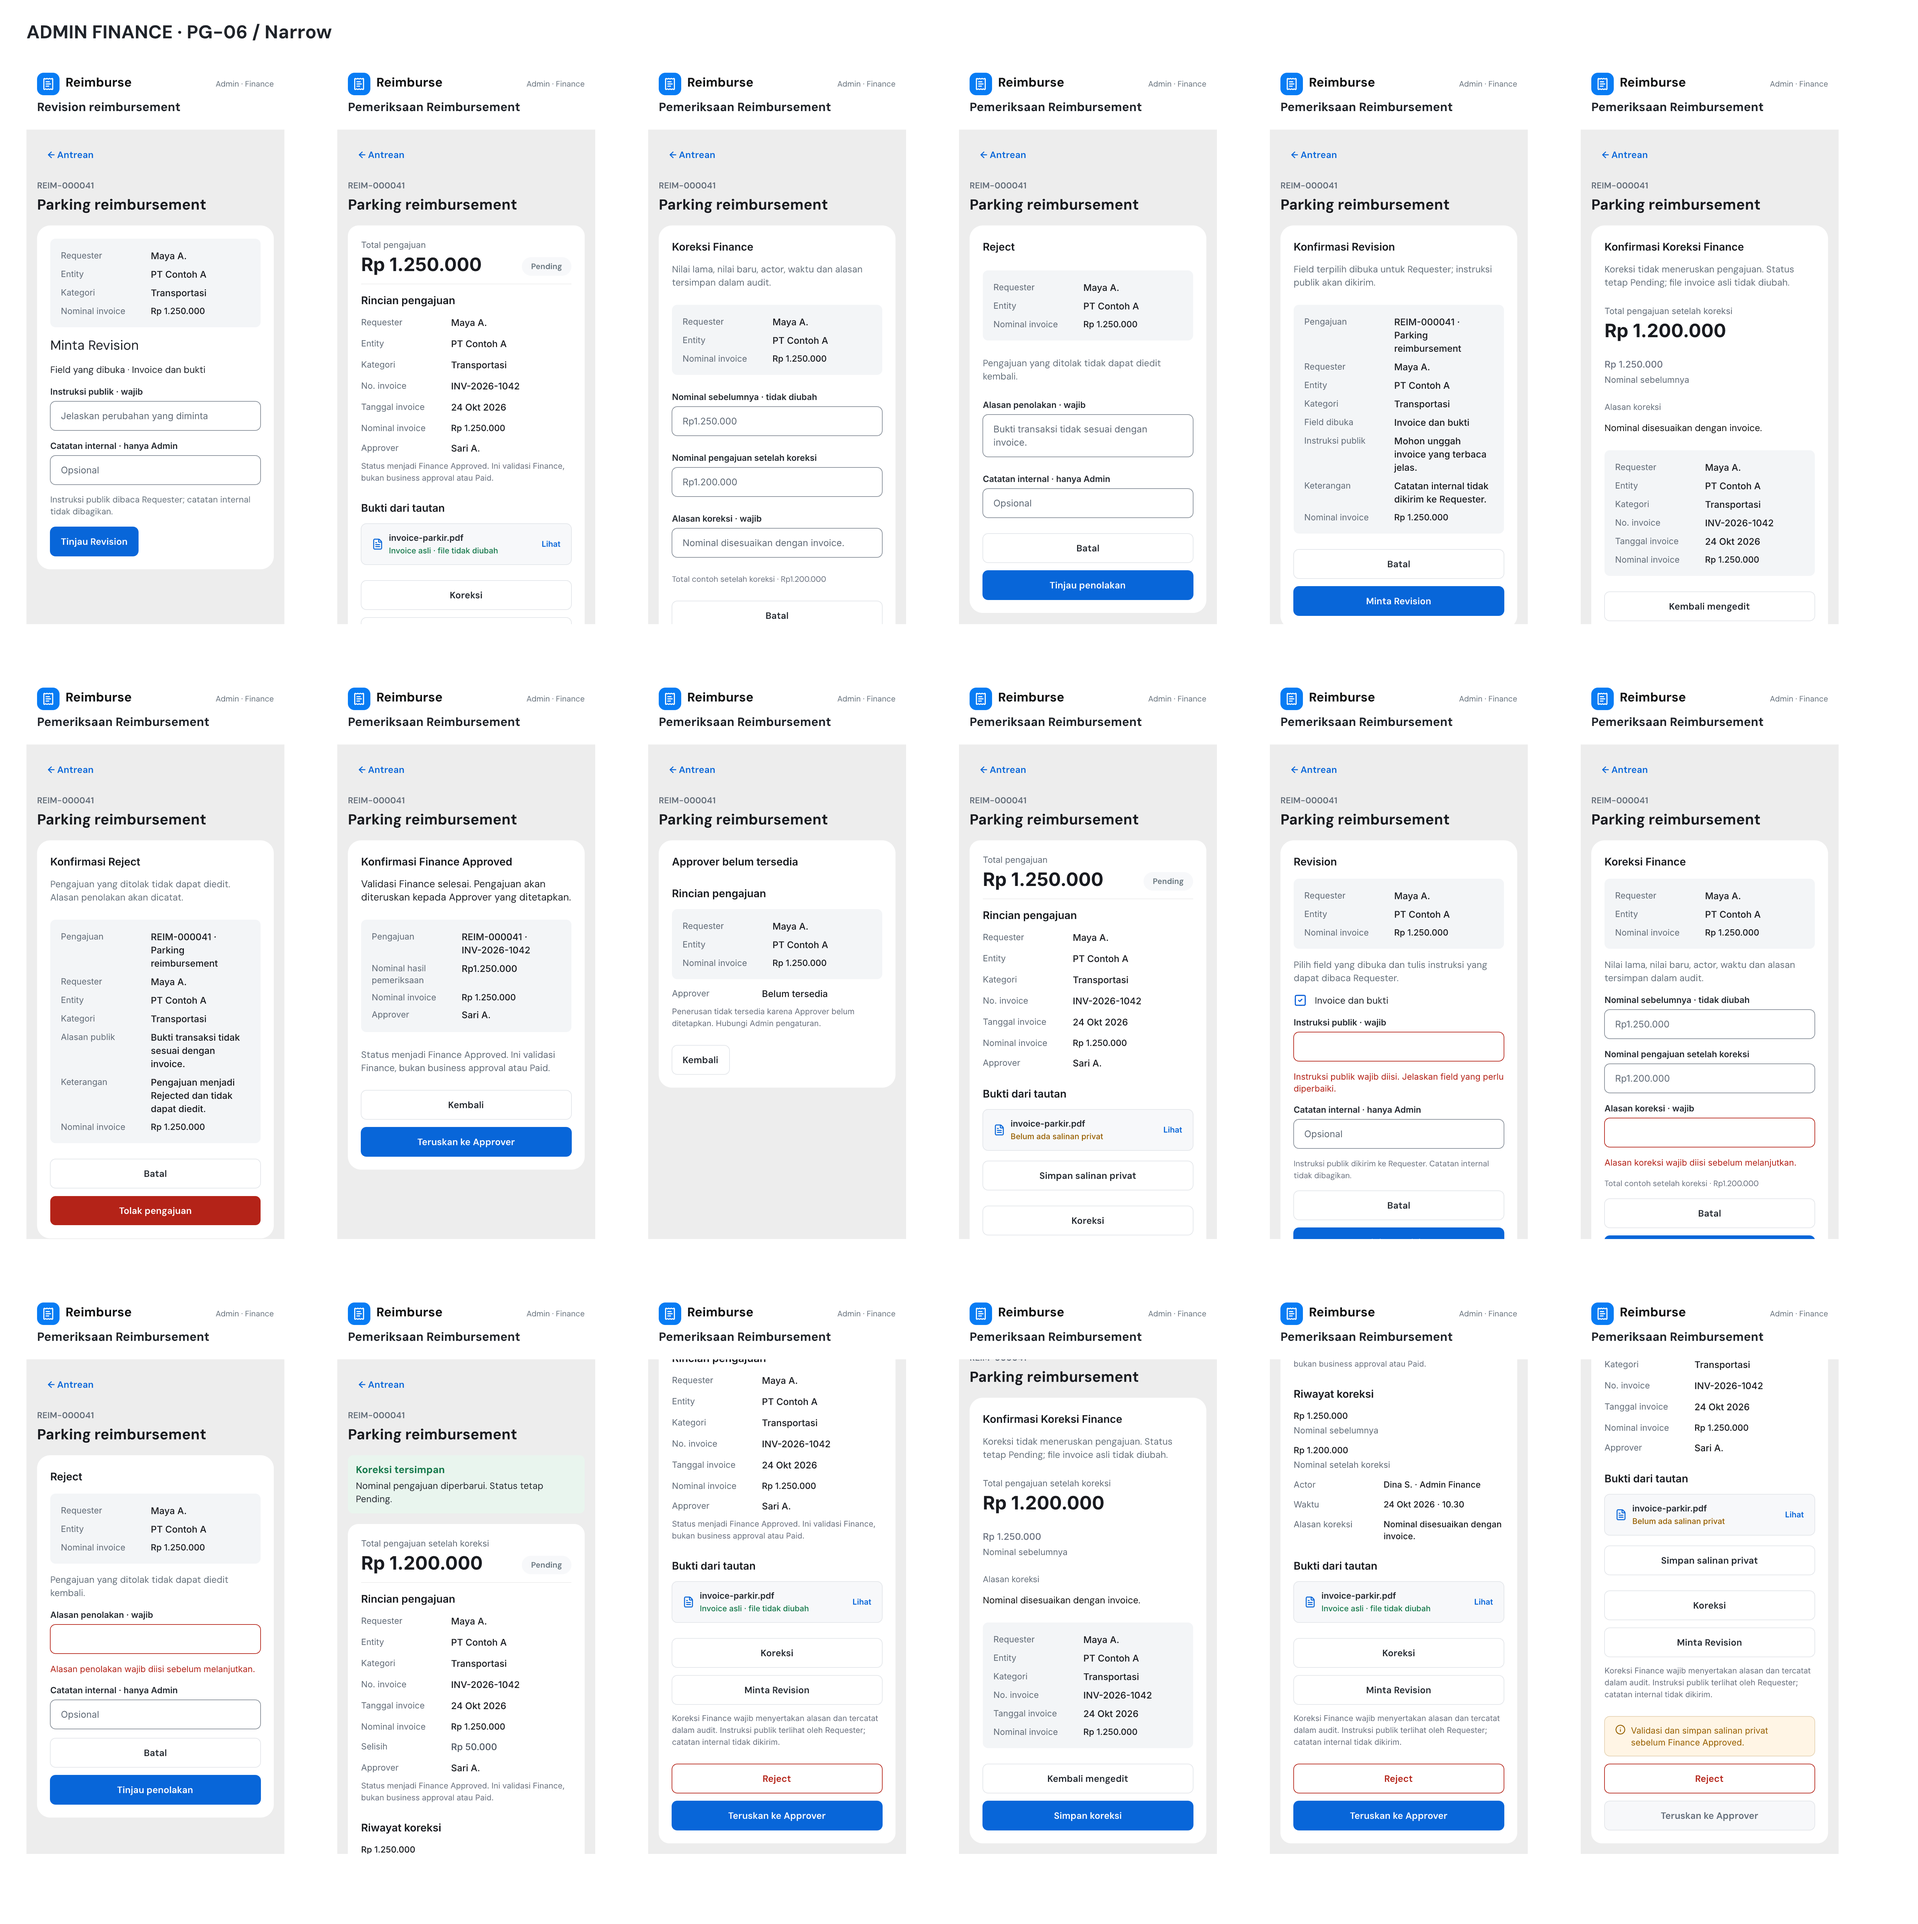
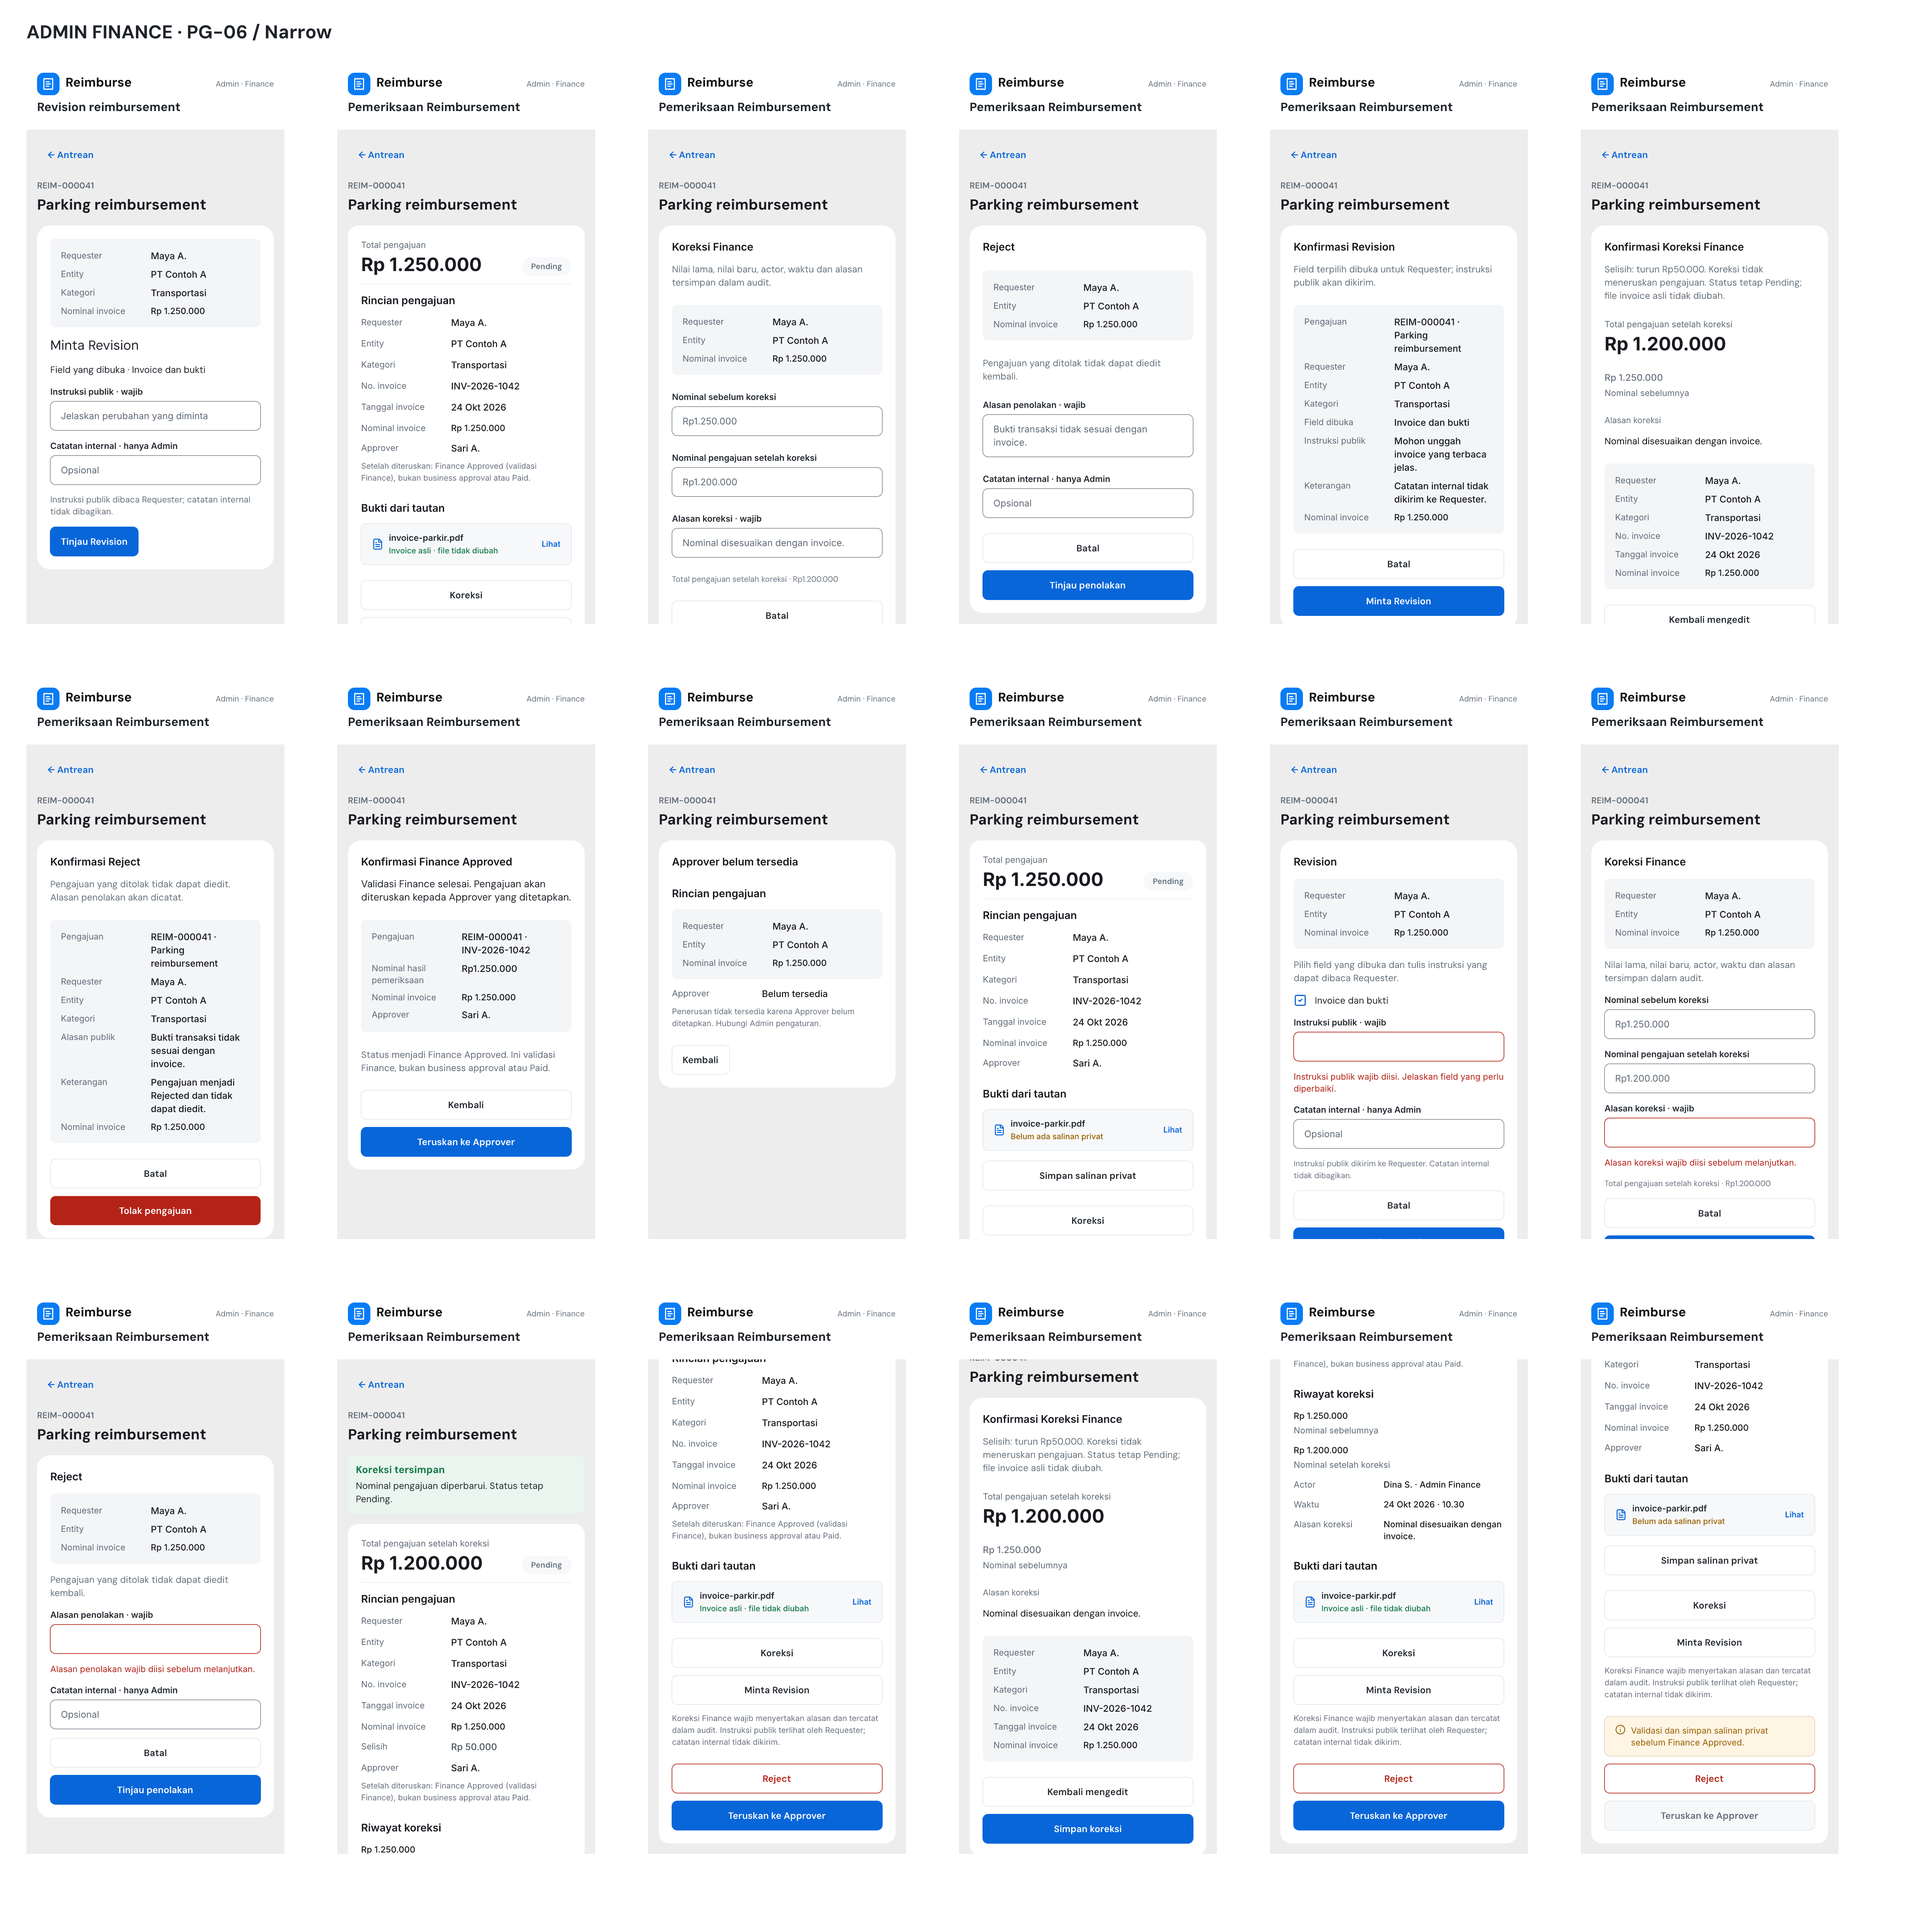
fix(design): refresh PG-06 review galleries

diff --git a/design/png/admin-finance-review/README.md b/design/png/admin-finance-review/README.md
@@ -4,7 +4,7 @@ PG-06 is **Ready for Owner Review**, not Approved. PG-04 queue and PG-08/10 rema
 
 ## Patch copy terverifikasi, issue #15
 
[2 lines of base64/hex data omitted]
 
 ### Verdict sebelum patch, dari layer editable, bukan PNG
 
@@ -24,7 +24,7 @@ Sumber patch: kanvas **yang di-stage untuk commit**, `design/reimburse.pen`, SHA
 | dRbB4 | jAMMq | `Selisih: turun Rp50.000. Koreksi tidak meneruskan pengajuan. Status tetap Pending. Nilai lama, nilai baru dan alasan dicatat dalam audit.` |
 | FyrQ7, d0R8t | zWkOX, wQYR2 (urutan berpasangan) | `Selisih: turun Rp50.000. Koreksi tidak meneruskan pengajuan. Status tetap Pending; file invoice asli tidak diubah.` |
 
-Ekspor patch ini **hanya 13 PNG individual 2×**: `Kr0gH.png`, `IPbJL.png`, `pSkHH.png`, `Fdupv.png`, `El9ow.png`, `phpZn.png`, `a5jkj.png`, `CYzIN.png`, `Wym3I.png`, `k99ii.png`, `dRbB4.png`, `FyrQ7.png`, `d0R8t.png`. **Galeri tidak diekspor** dan kini historis, bukan pratinjau patch ini. Daftar 30/34 PNG di bawah adalah catatan pass terdahulu, bukan ekspor patch ini.
+Ekspor patch ini **14 PNG individual 2×**: `Kr0gH.png`, `IPbJL.png`, `pSkHH.png`, `Fdupv.png`, `El9ow.png`, `phpZn.png`, `a5jkj.png`, `CYzIN.png`, `Wym3I.png`, `k99ii.png`, `dRbB4.png`, `FyrQ7.png`, `d0R8t.png`; k99ii diperbarui tersendiri setelah ditemukan stale. **Dua galeri PG-06 disegarkan** dari PNG individual terkini; tidak ada PNG individual lain diubah oleh penyegaran galeri. Daftar 30/34 PNG di bawah adalah catatan pass terdahulu, bukan ekspor patch ini.
 
 Checklist verifikasi patch:
 - Seluruh node ID dan struktur children dipertahankan; tidak ada node/source reusable baru atau perubahan variabel global. PG-02/PG-04 dan semua root selain dua root PG-06 tidak berubah.
@@ -65,7 +65,7 @@ This pass re-exported exactly **30 PNGs**: 14 Desktop specimens, 14 Narrow speci
 - Galleries (2): `k3Z6yT`, `QkNNL`.
 - Unchanged/not exported (no Selisih row): `E2LETd` (Revision form), `TMFSr` (Revision validation), `k99ii` (Correction validation), `AqkVX` (Reject validation).
 
- Individual Desktop entries are 2880×1920, Narrow 780×1688; galleries 12320×8560 / 5800×5820, all native 2×. The direct Desktop gallery export hits the 8192px cap, so its final PNG is composed in sRGB from the 14 already-refreshed native 2× Desktop PNGs and the cached 2× story heading. The heading has identical source data to the unchanged heading in the verification HEAD; it was not re-exported. No image was upscaled. Scroll positions are specimens, not new business states.
+Individual Desktop entries are 2880×1920, Narrow 780×1688; galleries native 2×. Desktop frame export has an 8192px width cap: gallery output is clipped by the exporter to 8192×5692, not the full canvas width. Narrow gallery is 5800×5820. Scroll positions are specimens, not new business states.
 
 **Latest polish, presentation only:** section rhythm remains 32px Desktop / 24px Narrow, divider spacing 16/16 and 12/12, title/content gap 12px. Kr0gH column gap is 32px; total label and right action box both start at y=24. Approver helper uses 156px Desktop indentation / none Narrow. Selisih is a plain neutral-2 key-value row, and audit rows have no nested gray surface; audit amounts stay 13/500. Correction values use horizontal Desktop / vertical Narrow order, corrected 28/700 and gray struck-through previous value, with no right-card hero. Correction cards size to content while the workspace still fills height.
 
